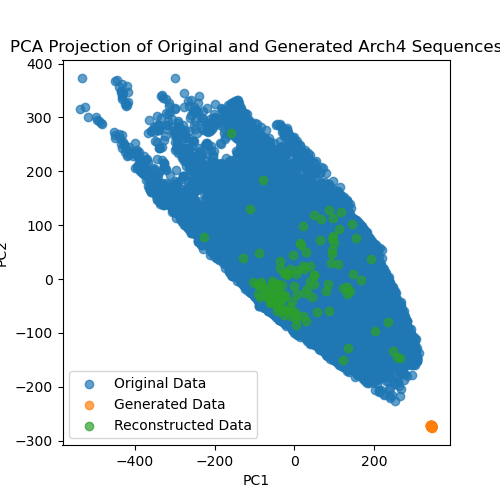
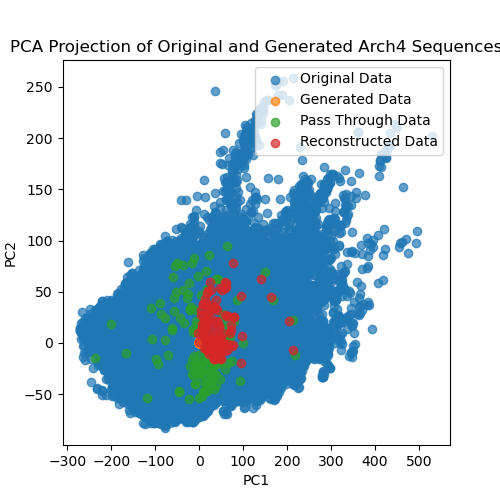
broader beta

diff --git a/code/m1_trainer.py b/code/m1_trainer.py
@@ -10,23 +10,15 @@ from wohlert.models import VariationalAutoencoder
 from torch.utils.data import WeightedRandomSampler, DataLoader
 
 
-TRAIN_EPOCHS = 100
-LEARNING_RATE = 5e-5
+TRAIN_EPOCHS = 200
+LEARNING_RATE = 1e-5
 MAX_FEATURE_VALUE = 1
 
-<<<<<<< HEAD
 latent_dim = 256
 reg_hidden_layers = [2048, 2048]
 out_features = 156958
 
-=======
-latent_dim = 32
-reg_hidden_layers = [2048, 2048]
-out_features = 156958
 
-LEARNING_RATE = 1e-5
-
->>>>>>> bdc0362 (ran the newer vae notebook on the hpc)
 dat_dir = "data/hdf5"
 gtexDset_train = GtexDataset(data_dir=dat_dir, split="train", normalize=True, load_in_mem=False)
 sampler_train = WeightedRandomSampler(weights=gtexDset_train.sample_weights, num_samples=2*len(gtexDset_train), replacement=True)
@@ -39,7 +31,7 @@ validation_dataloader = DataLoader(gtexDset_val, batch_size=128, num_workers=2, 
 use_cuda = True and torch.cuda.is_available()
 
 print(f"{use_cuda=}")
-vae_path = "results/beta_0.001/vae_model.pt"
+vae_path = "results/beta_1e-05_norm/vae_model.pt"
 vae_model = torch.load(vae_path)
 
 regressor_model = Regressor([latent_dim, reg_hidden_layers, out_features])
@@ -47,10 +39,6 @@ regressor_model = Regressor([latent_dim, reg_hidden_layers, out_features])
 model = M1_model(vae_model, regressor_model)
 print(model)
 
-<<<<<<< HEAD
-=======
-optimizer = torch.optim.Adam(model.parameters(), lr=LEARNING_RATE)
->>>>>>> bdc0362 (ran the newer vae notebook on the hpc)
 criterion = torch.nn.MSELoss()
 
 if use_cuda:

diff --git a/code/vae_trainer.py b/code/vae_trainer.py
@@ -215,7 +215,7 @@ if __name__ == '__main__':
     use_cuda = True and torch.cuda.is_available()
     pass_through_data = torch.tensor(pass_through_data, dtype=torch.float32, device='cuda' if use_cuda else 'cpu')
     
-    betas = [5e-2, 1e-2, 1e-3, 1e-4]
+    betas = [1e-6, 1e-7, 1e-8]
     for beta in betas:
         result_path = f"results/beta_{beta}"
         os.makedirs(result_path, exist_ok=True)
